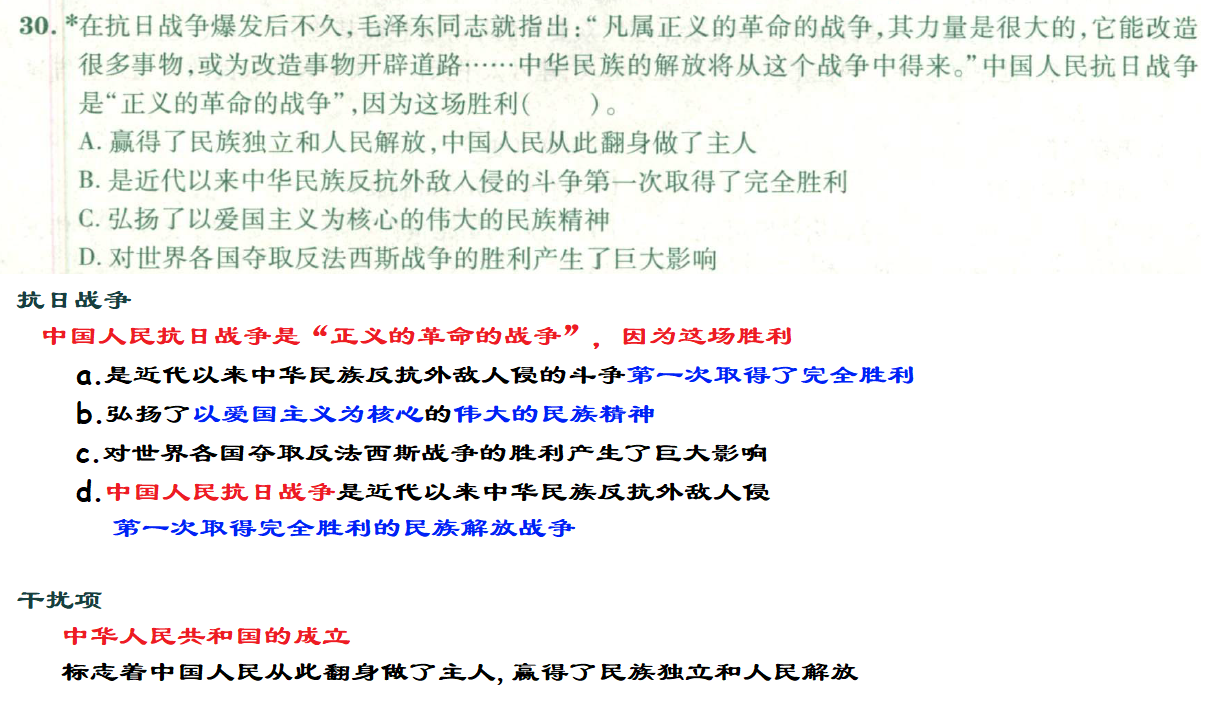
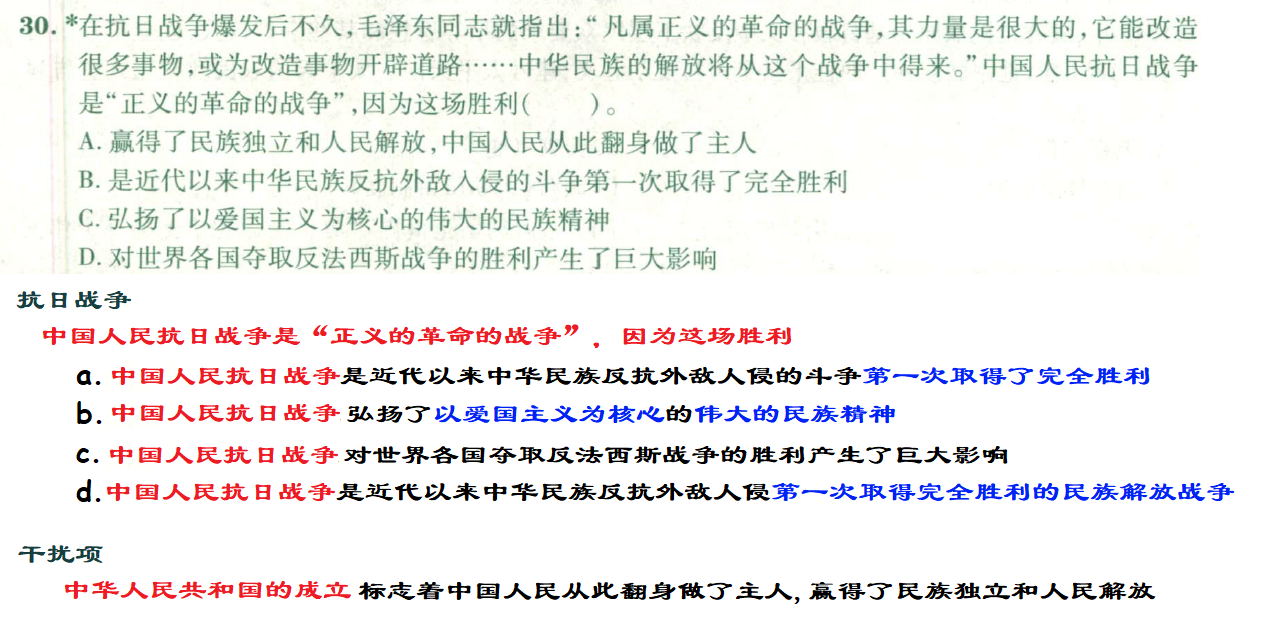
14

Changed region(s): [[0.0, 0.0, 0.9918, 0.8091], [0.0, 0.8391, 0.9299, 0.989]]

diff --git a/01 腿姐政治30天70分/27 Day27 keywords（关键词）专题/01 Note.md b/01 腿姐政治30天70分/27 Day27 keywords（关键词）专题/01 Note.md
@@ -208,7 +208,7 @@
 
 # 多选30 2’  抗日战争
 
-<img src="https://cvp.oss-cn-shanghai.aliyuncs.com/picgo/202308072100749.png" alt="image-20230807210019520" style="zoom:50%;" />
+<img src="https://cvp.oss-cn-shanghai.aliyuncs.com/picgo/202308072201632.png" alt="image-20230807220102433" style="zoom:50%;" />
 
 
 
